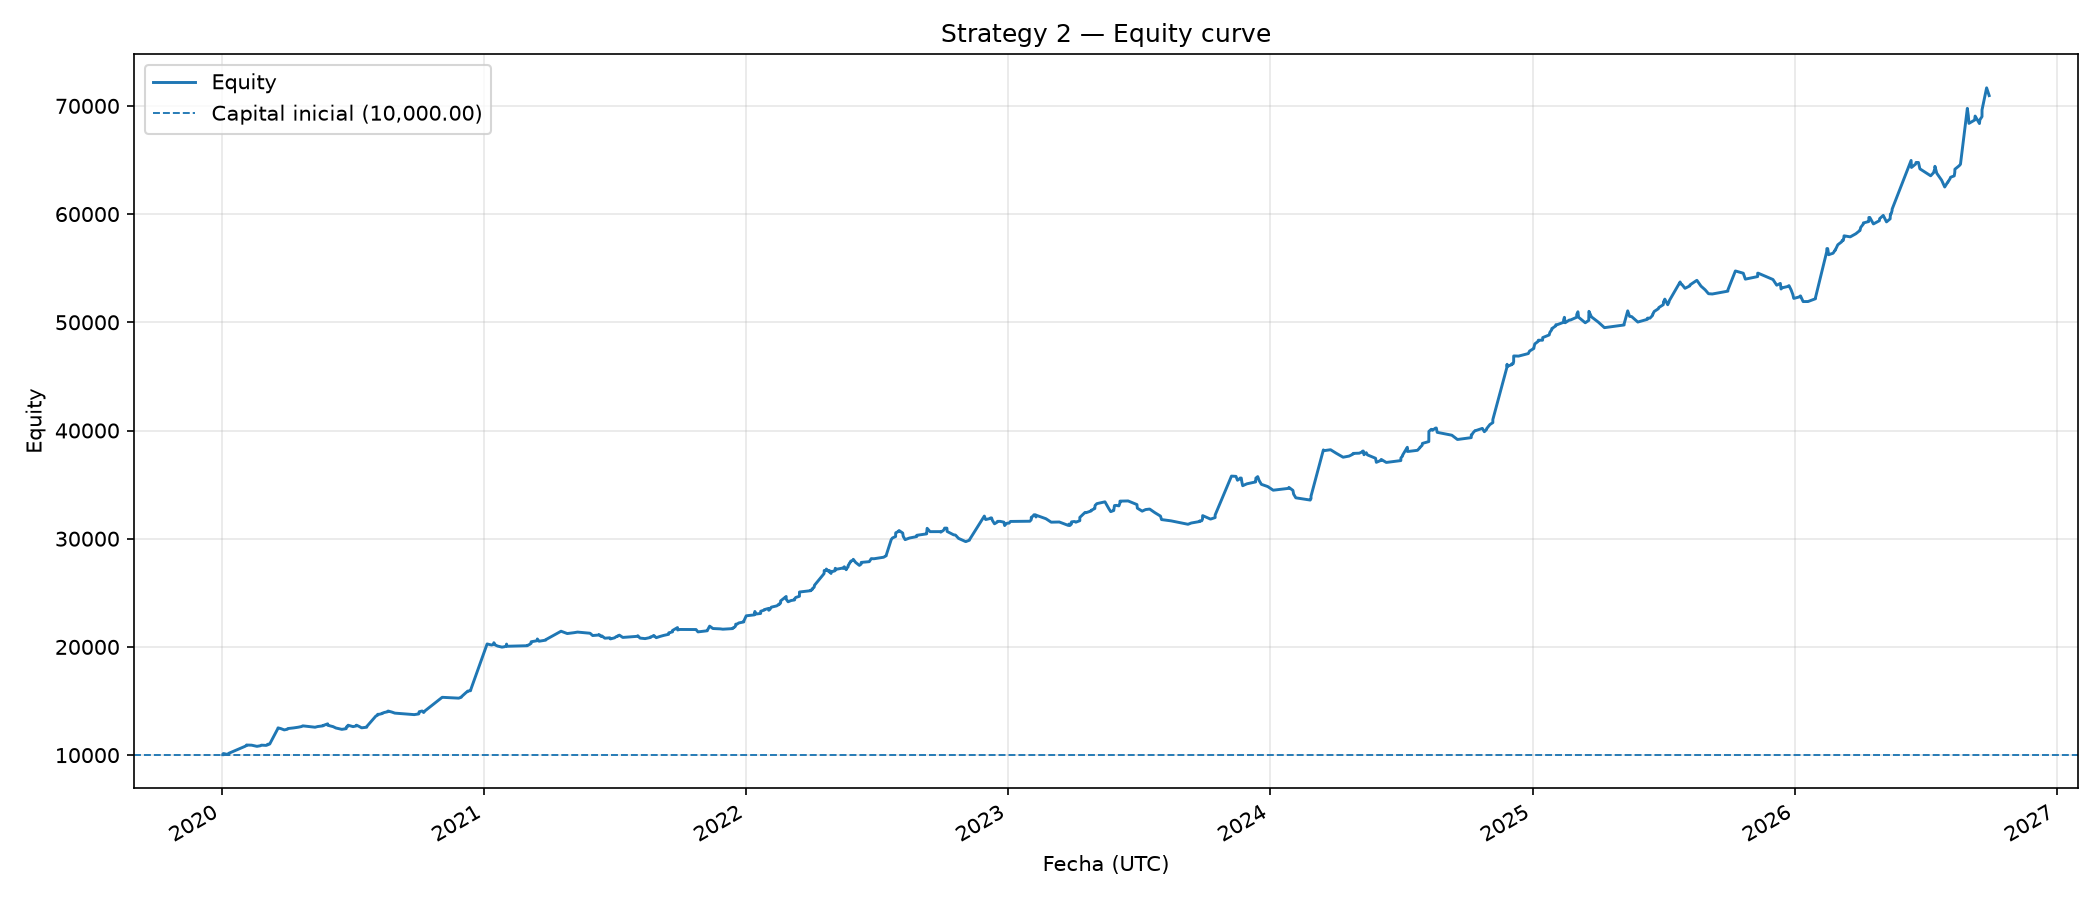
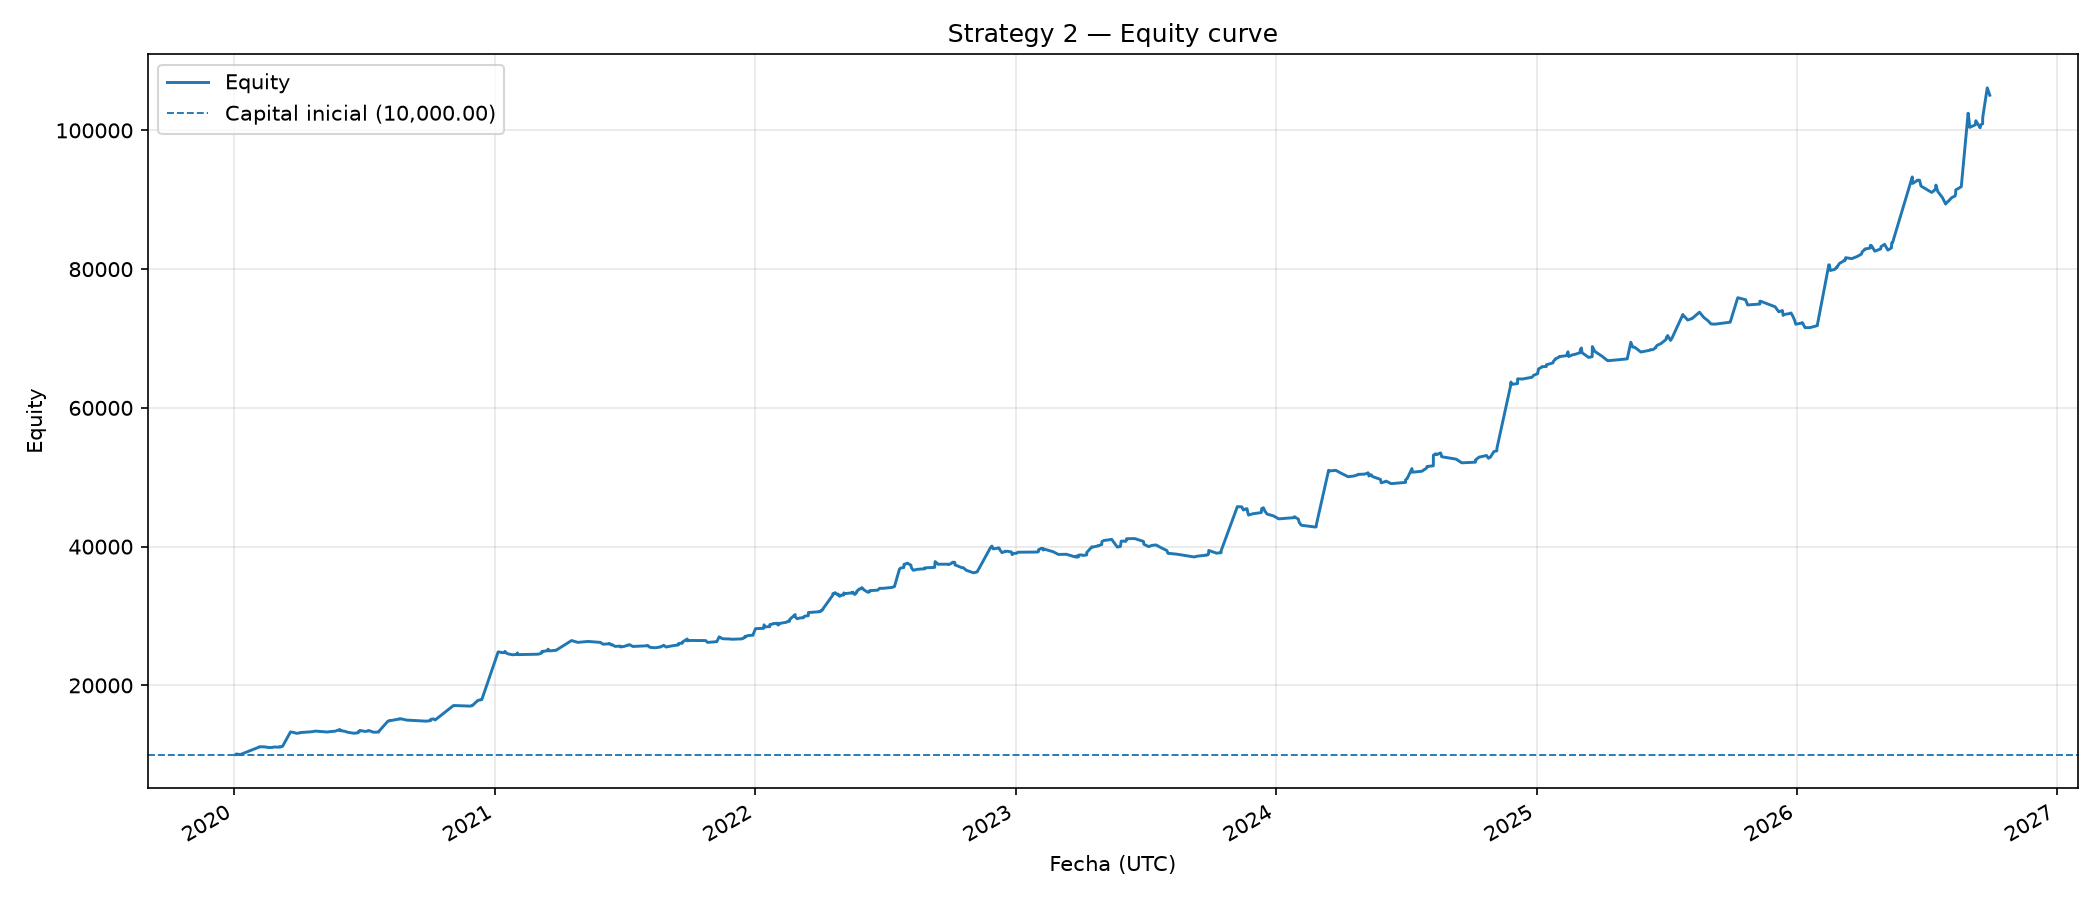
update

diff --git a/strategy/config.py b/strategy/config.py
@@ -144,12 +144,12 @@ class Config:
     # stop-loss consecutivos) a cambio de recortar parte del retorno.
     partial_tp_enabled: bool = True
     partial_tp_r: float = 1.0
-    partial_tp_pct: float = 50.0
+    partial_tp_pct: float = 40.0
     # Second partial take-profit (optional). If enabled (>0), it triggers at
     # partial_tp2_r (R-multiple of initial risk) closing partial_tp2_pct of
     # the position. Partial 2 is intended to be at larger distance than TP1.
     partial_tp2_r: float = 1.75
-    partial_tp2_pct: float = 25.0
+    partial_tp2_pct: float = 10.0
     move_stop_to_breakeven: bool = True
 
     # --- Entrada parcial -----------------------------------------------------
